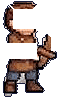
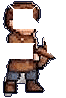
聖騎士的劍改成硬的：整把劍和握劍的手一起動
- 原本劍柄落在上半身那一層（會跟著呼吸伸縮）、劍身在另一層轉，熾天使的劍還有一截被切進左翼一起拍
  → 看起來劍會彎、軟趴趴地抖。現在劍和握劍的手整把切成一塊，熾天使的劍留在身體層不動
- 武器動作改成像素步進、不回彈：待機只微微傾斜 2 度，點擊時舉起、砍下、回位（獸人、哥布林一起套用）
- sw.js 快取版本 v39

Claude-Session: https://claude.ai/code/session_016wQJDqNmeMZi3CzSXZ7hYD

Changed region(s): [[0.6667, 0.3367, 0.8788, 0.6122], [0.4848, 0.0306, 0.6364, 0.2449], [0.4848, 0.4286, 0.5758, 0.6122]]

diff --git a/web/style.css b/web/style.css
@@ -985,10 +985,11 @@ ol.steps { margin: 0; padding-left: 1.4em; font-size: .9375rem; line-height: 1.7
   @keyframes idle-swayR { 50% { rotate: -3deg; } }
   @keyframes punchL { 30% { rotate: 7deg; } 100% { rotate: 0deg; } }
   @keyframes punchR { 30% { rotate: -7deg; } 100% { rotate: 0deg; } }
-  .rig .rp-swing { animation: idle-swing 4s ease-in-out infinite; }
-  .pet.react .rig .rp-swing { animation: smash .9s cubic-bezier(.3, 1.4, .5, 1) 1; }
-  @keyframes idle-swing { 50% { rotate: -3deg; } }
-  @keyframes smash { 0% { rotate: 0deg; } 30% { rotate: -13deg; } 55% { rotate: 4deg; } 100% { rotate: 0deg; } }
+  .rig .rp-swing { animation: idle-swing 4s steps(8, jump-none) infinite alternate; }
+  .pet.react .rig .rp-swing { animation: smash .7s steps(7, jump-none) 1; }
+  @keyframes idle-swing { from { rotate: 0deg; } to { rotate: -2deg; } }
+  /* 揮砍：一次舉起、一次砍下、回位，不回彈（硬的武器不會晃） */
+  @keyframes smash { 0% { rotate: 0deg; } 30% { rotate: -12deg; } 60% { rotate: 6deg; } 100% { rotate: 0deg; } }
   .rig .rp-drift { animation: idle-drift 6s ease-in-out infinite; }
   .pet.react .rig .rp-drift { animation: puff .8s ease-out 1; }
   @keyframes idle-drift { 50% { translate: 3px 0; } }

diff --git a/web/sw.js b/web/sw.js
@@ -1,5 +1,5 @@
 // 只快取 App 外殼，讓主畫面圖示在網路不穩時也打得開；API 一律走網路。
-const CACHE = "ic8-shell-v38";
+const CACHE = "ic8-shell-v39";
 const SHELL = ["/", "/style.css", "/js/core.js", "/js/summary.js", "/js/activity.js", "/js/analysis.js",
   "/js/me.js", "/js/brief.js", "/js/apple.js", "/js/strength.js", "/js/learn.js", "/js/runner.js", "/js/share.js", "/js/main.js", "/manifest.webmanifest", "/characters/manifest.json", "/icons/apple-touch-icon.png"];
 

diff --git a/tools/rig_split.py b/tools/rig_split.py
@@ -102,31 +102,15 @@ RIGS: dict[str, dict[int, list]] = {
             ("torso", [48, 52, 120, 90], [84, 90], "breath")]},
     # 聖騎士：頭、上半身、劍揮動；第 4 階段披風飄；最終階段熾天使雙翼拍動
     "paladin": {
-        1: [("head", [6, 2, 44, 36], [24, 36], "tilt"), ("weapon", [44, 2, 66, 58], [44, 52], "swing"), ("torso", [4, 36, 46, 66], [24, 66], "breath")],
-        2: [("head", [24, 2, 54, 36], [38, 36], "tilt"), ("weapon", [58, 12, 86, 60], [58, 56], "swing"), ("torso", [6, 36, 62, 70], [36, 70], "breath")],
-        3: [("head", [34, 2, 62, 34], [48, 34], "tilt"), ("weapon", [58, 10, 106, 62], [60, 60], "swing"), ("torso", [16, 34, 72, 70], [44, 70], "breath")],
-        4: [("head", [40, 10, 90, 46], [64, 46], "tilt"), ("weapon", [90, 66, 134, 106], [90, 74], "swing"),
-            ("cape", [2, 60, 40, 114], [38, 62], "swayL"), ("torso", [38, 46, 95, 78], [64, 78], "breath")],
-        5: [("head", [84, 28, 104, 52], [94, 52], "tilt"), ("torso", [72, 52, 118, 85], [95, 85], "breath"),
-            ("wingL", [10, 0, 80, 100], [78, 45], "flapL"), ("wingR", [112, 0, 193, 95], [114, 45], "flapR")]},
-    # 天海神龍：魚身擺、尾巴搖；龍頭擺、尾巴捲；周圍的雲左右飄（整隻浮空）
-    "sea_dragon": {
-        1: [("tail", [25, 60, 52, 94], [40, 64], "wag"), ("torso", [15, 8, 86, 60], [50, 60], "breath")],
-        2: [("tail", [0, 8, 44, 72], [42, 40], "wag"), ("beast", [86, 8, 123, 72], [88, 40], "nod")],
-        3: [("head", [90, 0, 134, 70], [95, 55], "tilt"), ("tail", [96, 80, 134, 132], [100, 95], "wag")],
-        4: [("head", [85, 0, 136, 55], [95, 50], "tilt"), ("cloudL", [4, 8, 46, 42], [25, 25], "drift"), ("cloudR", [94, 104, 146, 138], [120, 120], "drift")],
-        5: [("head", [70, 8, 130, 74], [100, 72], "tilt"), ("cloudL", [0, 4, 62, 48], [30, 25], "drift"), ("cloudR", [112, 8, 162, 50], [136, 30], "drift")]},
-    # 火龍：龍蛋上半殼晃；翅膀拍、龍頭點、尾巴搖、噴出的火焰跳動
-    "flame_dragon": {
-        1: [("head", [4, 2, 46, 34], [25, 34], "tilt")],
-        2: [("flame", [132, 24, 176, 72], [134, 48], "flicker"), ("beast", [96, 10, 132, 76], [100, 40], "nod"),
-            ("wingL", [4, 0, 96, 40], [80, 35], "flapL"), ("tail", [0, 36, 44, 72], [40, 50], "wag")],
-        3: [("beast", [115, 20, 162, 82], [118, 60], "nod"), ("flame", [112, 88, 196, 133], [116, 110], "flicker"),
-            ("wingL", [0, 2, 96, 60], [90, 45], "flapL"), ("wingR", [128, 6, 176, 52], [130, 40], "flapR"), ("tail", [24, 84, 86, 133], [80, 95], "wag")],
-        4: [("head", [100, 0, 136, 50], [117, 50], "tilt"), ("wingL", [4, 2, 100, 62], [98, 45], "flapL"), ("wingR", [136, 2, 192, 62], [138, 40], "flapR"),
-            ("torso", [96, 50, 150, 110], [120, 110], "breath")],
-        5: [("head", [98, 10, 130, 45], [114, 45], "tilt"), ("flame", [126, 45, 231, 132], [130, 55], "flicker"),
-            ("wingL", [4, 0, 98, 70], [96, 35], "flapL"), ("wingR", [130, 0, 224, 70], [132, 35], "flapR"), ("tail", [44, 84, 110, 122], [100, 90], "wag")]},
+        # 劍要是硬的：劍和握劍的手整把切成一塊、一起轉，不能有一截落在上半身或翅膀那一層
+        1: [("weapon", [40, 0, 68, 60], [44, 52], "swing"), ("head", [6, 2, 44, 36], [24, 36], "tilt"), ("torso", [4, 36, 40, 66], [24, 66], "breath")],
+        2: [("weapon", [50, 10, 90, 66], [56, 58], "swing"), ("head", [24, 2, 54, 36], [38, 36], "tilt"), ("torso", [6, 36, 50, 70], [30, 70], "breath")],
+        3: [("weapon", [50, 8, 108, 70], [56, 62], "swing"), ("head", [34, 2, 62, 34], [48, 34], "tilt"), ("torso", [16, 34, 50, 70], [34, 70], "breath")],
+        4: [("weapon", [84, 62, 136, 108], [88, 72], "swing"), ("head", [40, 10, 90, 46], [64, 46], "tilt"),
+            ("cape", [2, 60, 40, 114], [38, 62], "swayL"), ("torso", [40, 46, 84, 78], [62, 78], "breath")],
+        # 熾天使：劍斜在左下，留在身體層不動；左翼的範圍不能蓋到劍，上半身也不能切到劍柄
+        5: [("head", [84, 28, 104, 52], [94, 52], "tilt"), ("torso", [78, 52, 118, 85], [97, 85], "breath"),
+            ("wingL", [10, 0, 80, 70], [78, 45], "flapL"), ("wingR", [112, 0, 193, 95], [114, 45], "flapR")]},
     "fox_spirit": {
         1: [("head", [36, 0, 77, 42], [52, 40], "tilt"), ("tail", [4, 18, 36, 66], [36, 52], "wag")],
         2: [("head", [48, 8, 82, 46], [64, 46], "tilt"), ("tailL", [6, 38, 50, 112], [50, 70], "fanL"), ("torso", [46, 46, 85, 95], [64, 95], "breath")],
